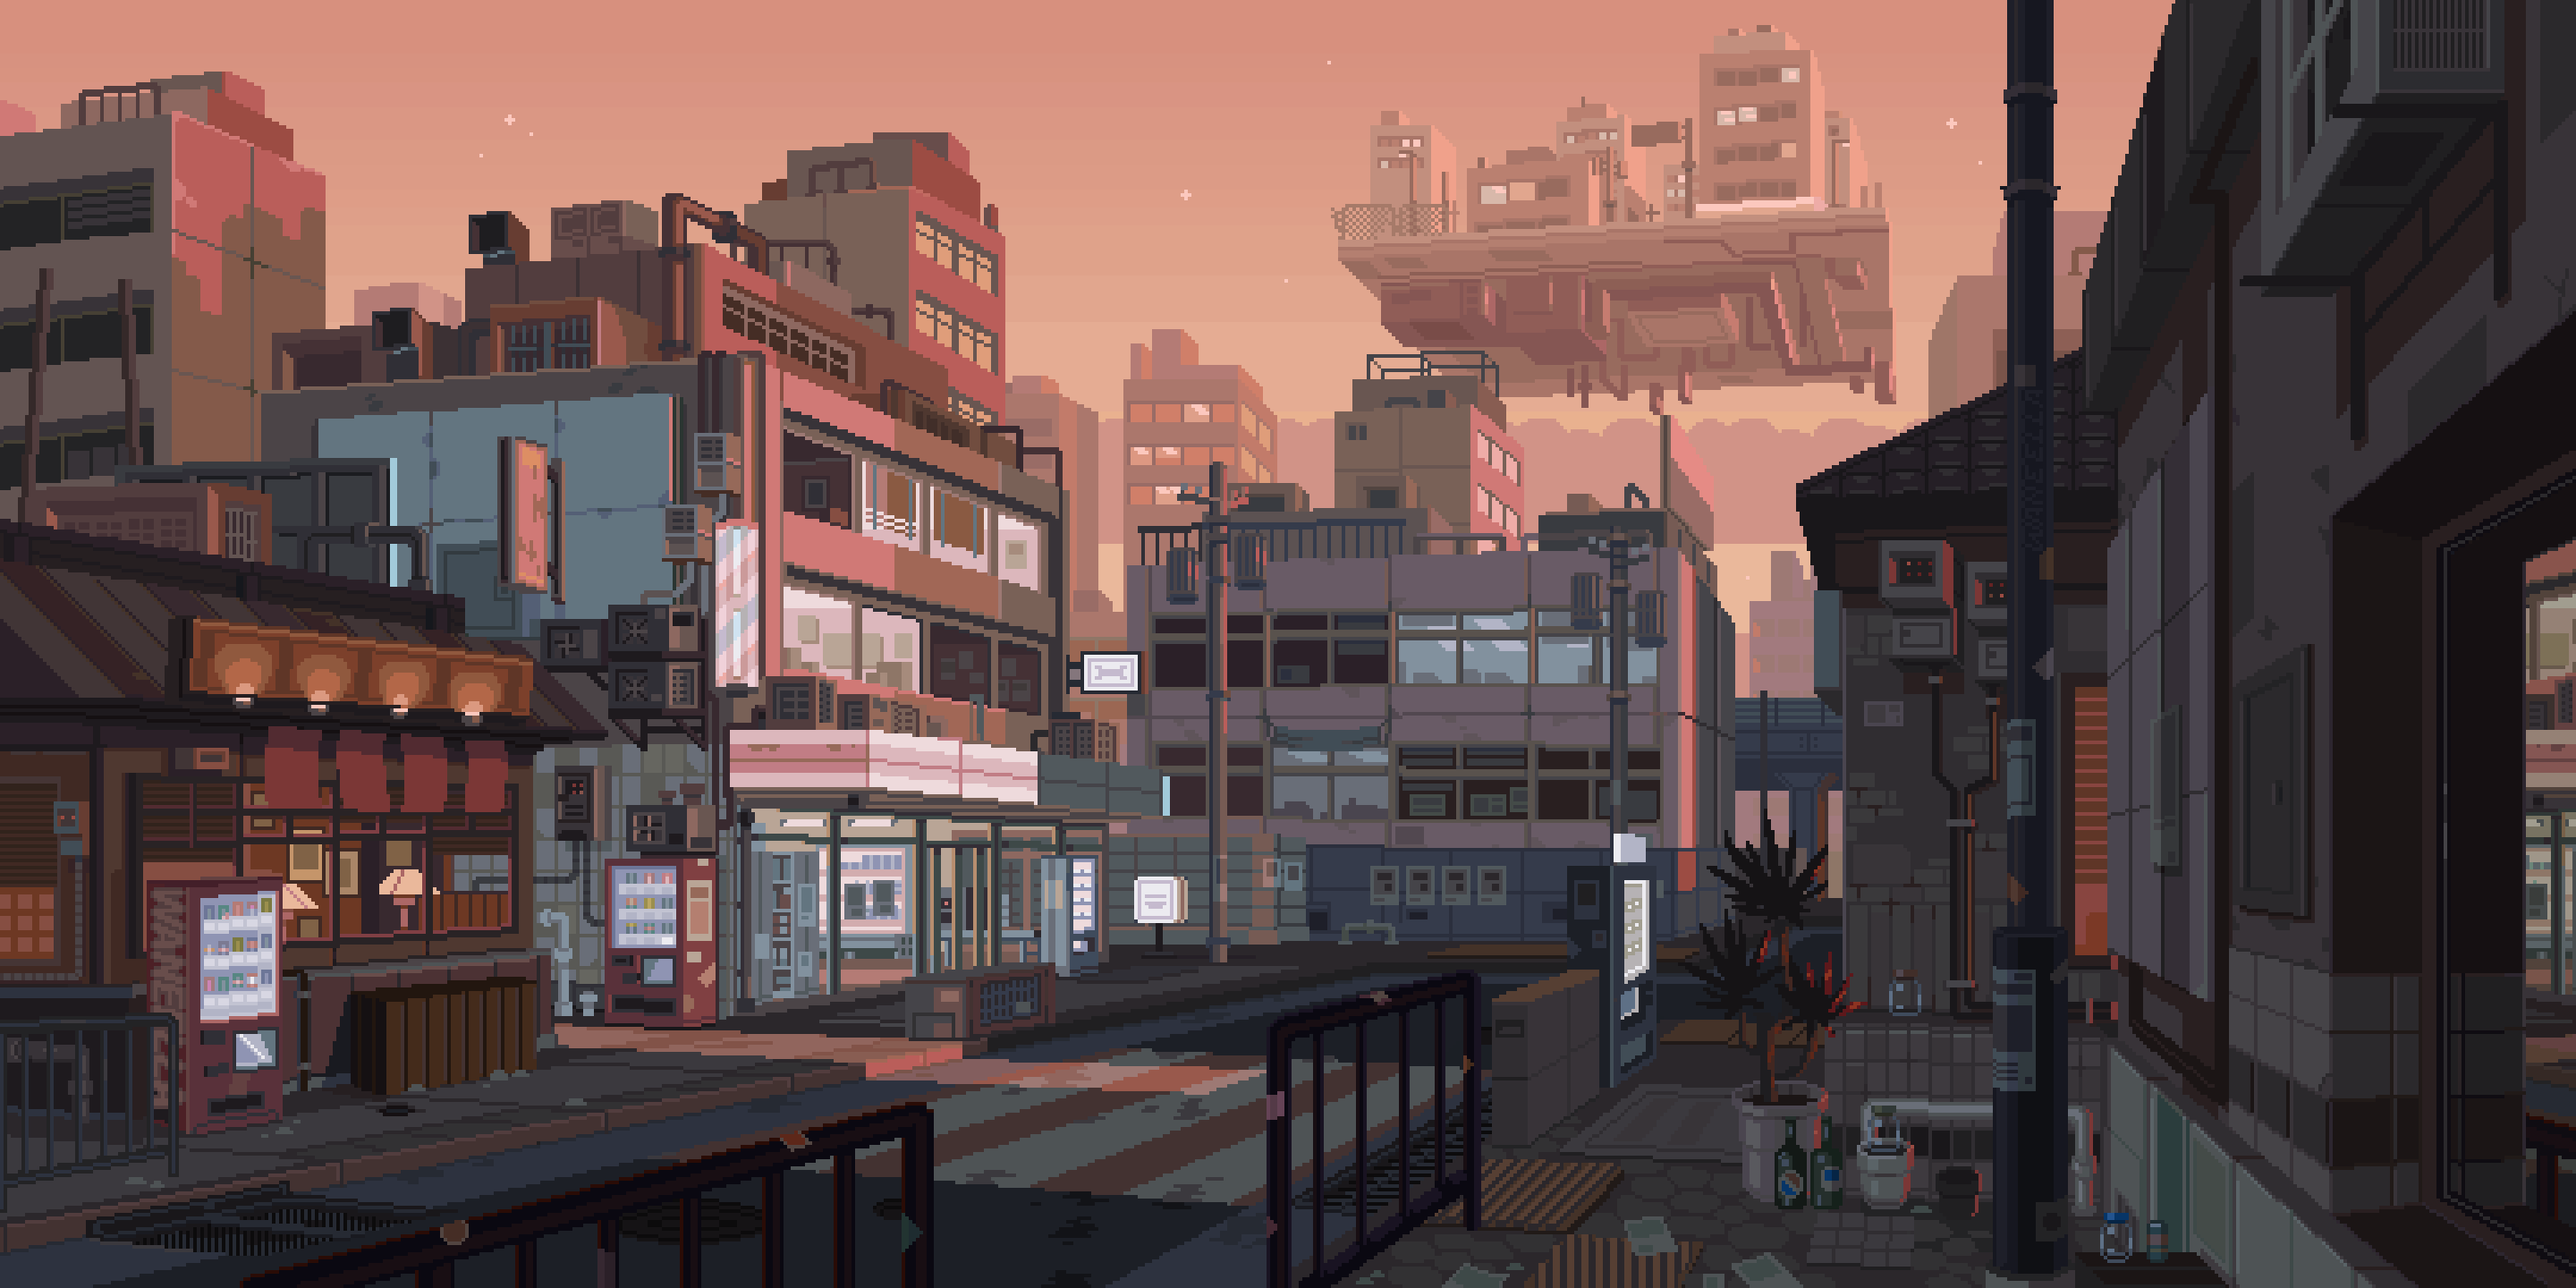
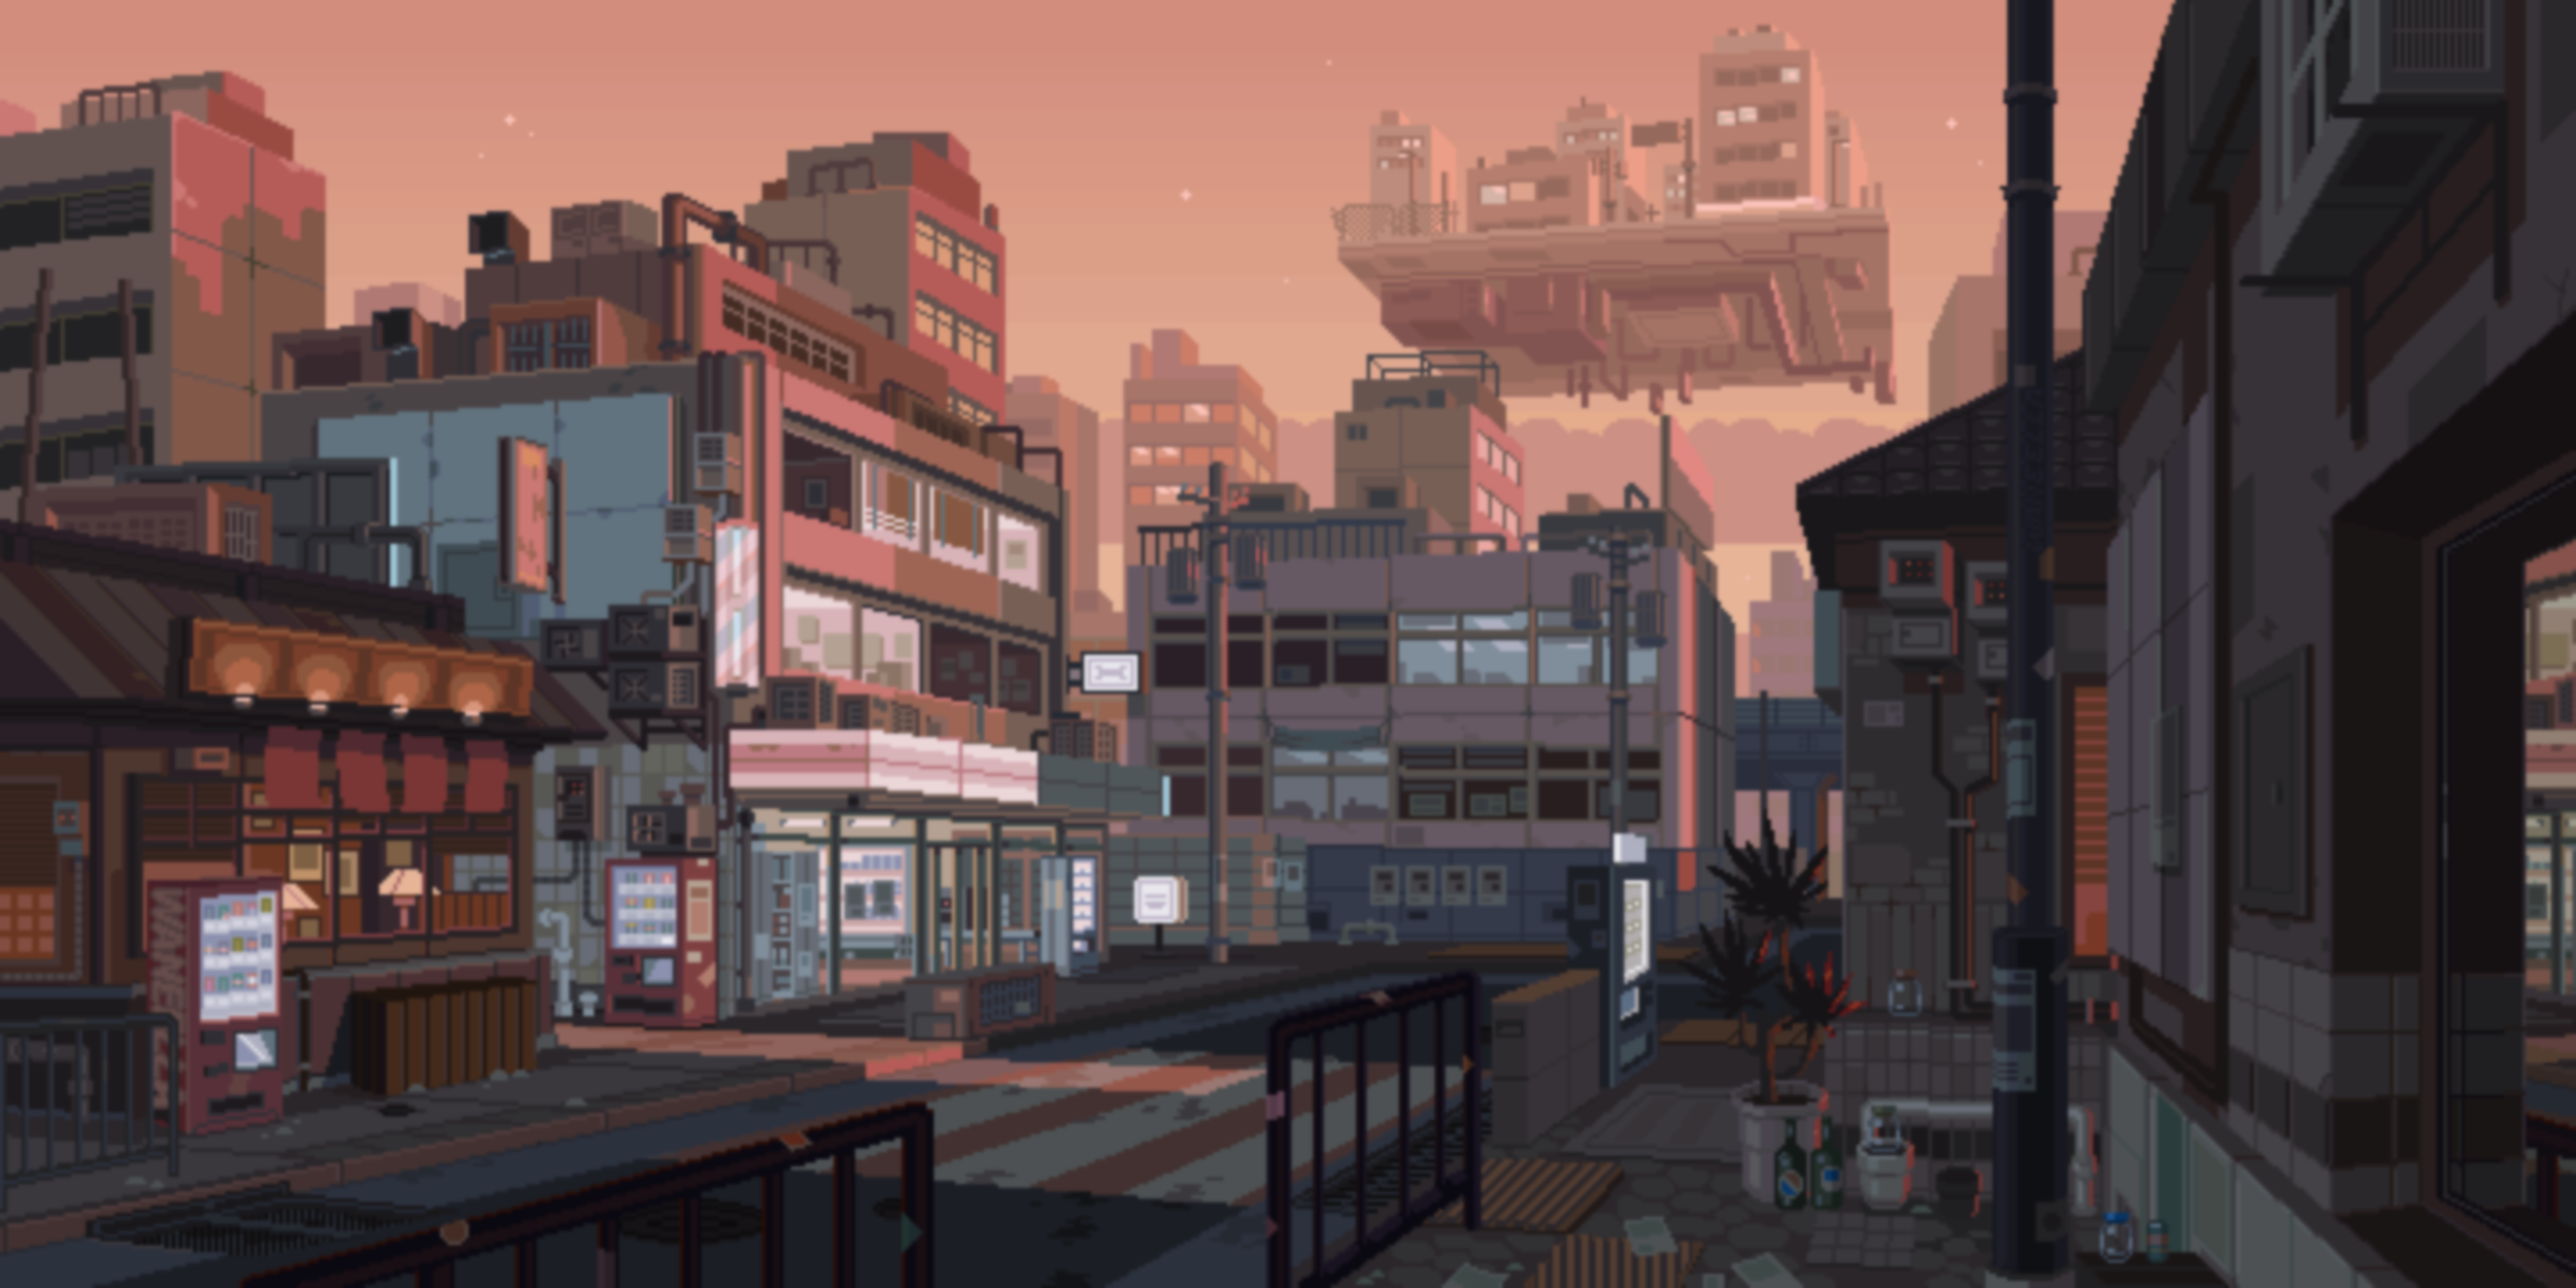
update

diff --git a/WebFrontEnd/src/pages/Home/HomeView.vue b/WebFrontEnd/src/pages/Home/HomeView.vue
@@ -9,7 +9,7 @@ import Header from "../Home/Sections/Header.vue";
 import PresentationPages from "./Sections/Articles.vue";
 
 //images
-import vueMkHeader from "../../assets/img/bg/bk.png";
+import vueMkHeader from "../../assets/img/bg/966316.jpg";
 import logo from "../../assets/img/icon/logo.png";
 import MaterialInput from "../../components/MaterialInput.vue";
 
@@ -35,7 +35,7 @@ onUnmounted(() => {
   </div>
   <Header>
     <div
-      class="page-header min-vh-75"
+      class="page-header min-vh-75 blur"
       :style="`background-image: url(${vueMkHeader})`"
       loading="lazy"
     >

diff --git a/WebFrontEnd/src/pages/Home/Sections/NavbarDefault.vue b/WebFrontEnd/src/pages/Home/Sections/NavbarDefault.vue
@@ -17,7 +17,7 @@ const props = defineProps({
     label: String,
     default: () => ({
       route: "https://github.com/AnLan1214090013/LittleLittleWeb",
-      color: "bg-gradient-success",
+      color: "bg-gradient-primary",
       label: "登陆"
     })
   },

diff --git a/WebFrontEnd/src/assets/css/pic.css b/WebFrontEnd/src/assets/css/pic.css
@@ -1,0 +1,6 @@
+.blur {
+    -webkit-filter: blur(10px); /* Chrome, Opera */
+    -moz-filter: blur(10px);
+    -ms-filter: blur(10px);
+    filter: blur(10px);
+}
